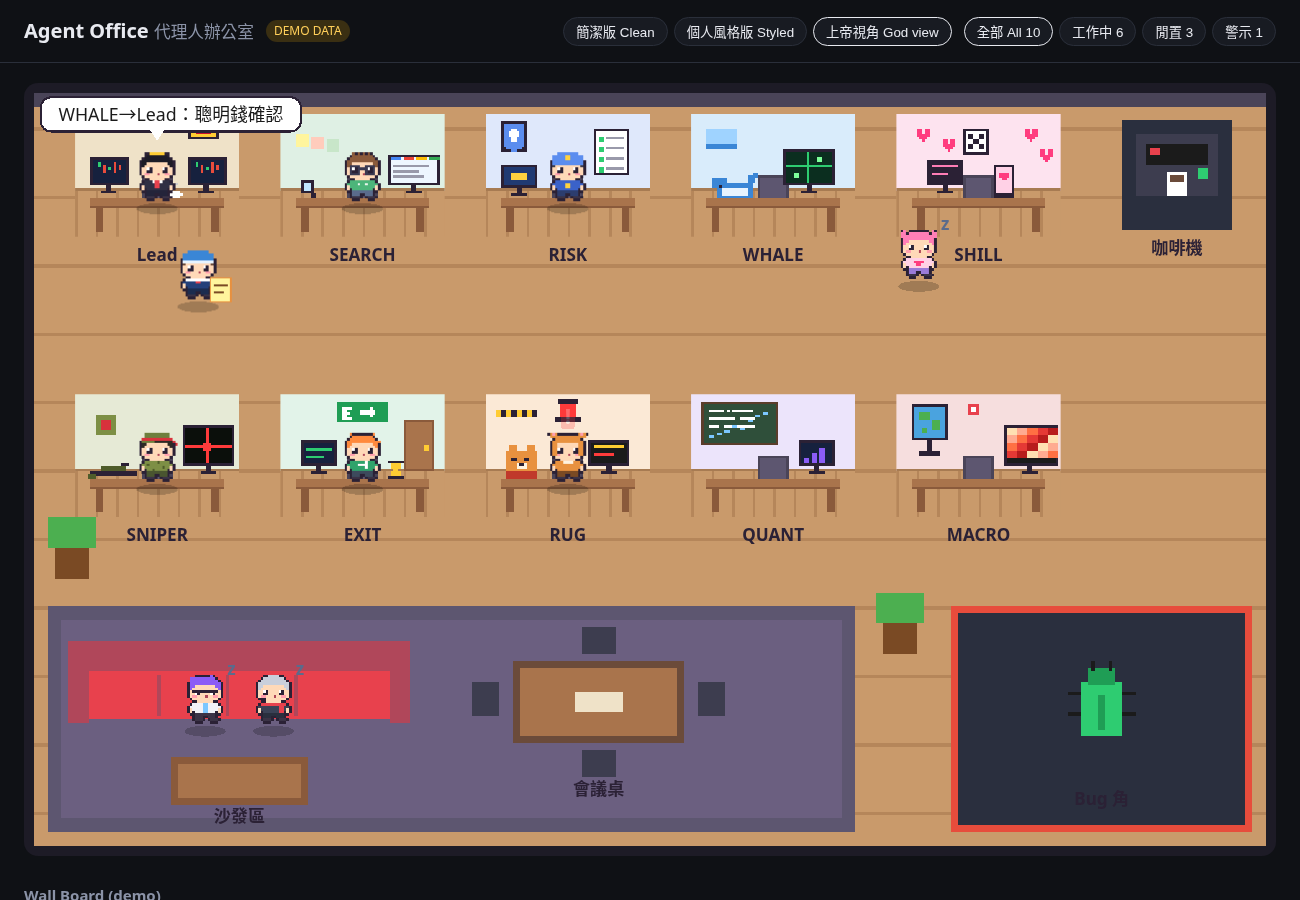
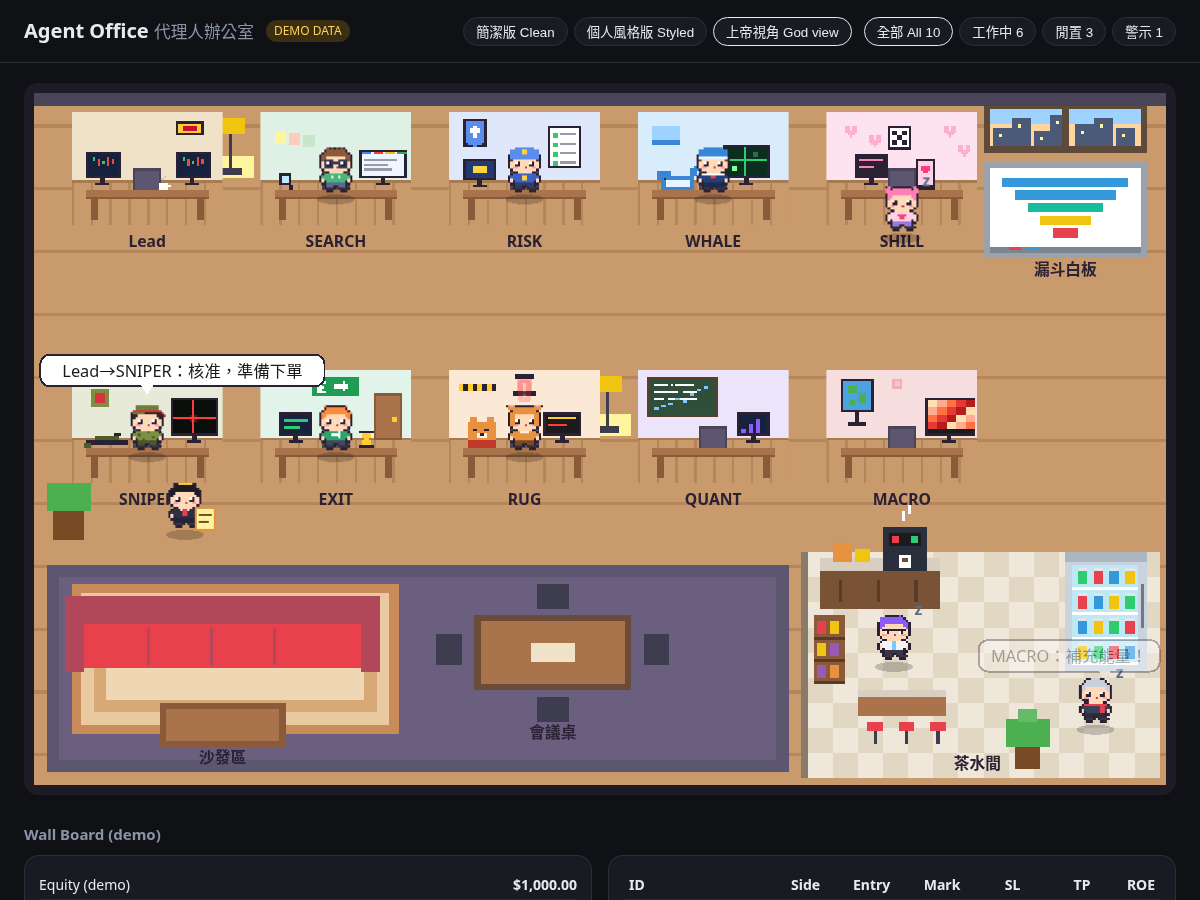
God view: replace Bug corner with pixel kitchen (fridge, coffee, snacks, island), window, funnel whiteboard, rug, lamps; idle agents grab drinks

diff --git a/godcore.js b/godcore.js
@@ -11,17 +11,18 @@ function godPlan(S, LEAD) {
   const spot = (x, y) => ({ x: x - 7.5, y: y - 16, door: { x, y: LB }, lane: "B", cx: x });
   const SOFA = [spot(30, 186), spot(50, 186), spot(70, 186), spot(90, 186)];
   const TABLE = [spot(140, 182), spot(190, 182)];
-  const COFFEE = { x: 335 - 7.5, y: LA - 14, door: { x: 335, y: LA }, lane: "A", cx: 335 };
+  const COFFEE = { x: 266, y: 166, door: { x: 300, y: LB }, lane: "B", cx: 300, via: [[292.5, 166]] };
+  const FRIDGE = { x: 333, y: 186, door: { x: 300, y: LB }, lane: "B", cx: 300, via: [[292.5, 186]] };
   const near = (id, dx) => { const s = seat[id]; return { x: s.door.x - 7.5 + dx, y: s.door.y - (s.lane === "A" ? 10 : 18), door: { x: s.door.x + dx, y: s.door.y }, lane: s.lane, cx: s.door.x + dx }; };
   // route through corridors (lane A y=56, lane B y=142, vertical gaps between desks)
   function route(P, Q) {
-    const pts = [[P.x, P.y], [P.door.x - 7.5, P.door.y - 16]];
+    const pts = [[P.x, P.y], ...(P.via ? P.via.slice().reverse() : []), [P.door.x - 7.5, P.door.y - 16]];
     let cx = P.door.x;
     if (P.lane !== Q.lane) {
       const g = GAPS.reduce((a, b) => Math.abs(b - (cx + Q.door.x) / 2) < Math.abs(a - (cx + Q.door.x) / 2) ? b : a);
       pts.push([g - 7.5, P.door.y - 16], [g - 7.5, Q.door.y - 16]);
     }
-    pts.push([Q.door.x - 7.5, Q.door.y - 16], [Q.x, Q.y]);
+    pts.push([Q.door.x - 7.5, Q.door.y - 16], ...(Q.via || []), [Q.x, Q.y]);
     return pts;
   }
   const isOn = id => S[id] && S[id].status !== "idle";
@@ -57,20 +58,21 @@ function godPlan(S, LEAD) {
   let si = 0;
   ORDER.filter(id => S[id] && S[id].status === "idle").forEach((id, i) => {
     const lounge = si < SOFA.length ? SOFA[si] : TABLE[(si - SOFA.length) % 2]; si++;
-    const o = (i * 2.3) % (T * 0.3), a = o + 0.5, b = a + T * 0.12, c = b + T * 0.3, d = c + T * 0.1, e = d + T * 0.12, f = e + T * 0.08;
+    const o = (i * 2.3) % (T * 0.3), a = o + 0.5, b = a + T * 0.12, c = b + T * 0.2, d = c + T * 0.09, d2 = d + T * 0.07, d3 = d2 + T * 0.04, e = d3 + T * 0.07, f = e + T * 0.08;
     push(id, a, seat[id].x, seat[id].y); walk(id, route(seat[id], lounge), a, b); push(id, c, lounge.x, lounge.y);
-    walk(id, route(lounge, COFFEE), c, d); push(id, e, COFFEE.x, COFFEE.y); walk(id, route(COFFEE, seat[id]), e, Math.min(f, T));
+    walk(id, route(lounge, FRIDGE), c, d); push(id, d2, FRIDGE.x, FRIDGE.y); bubbles.push({ x: FRIDGE.x + 7.5, y: FRIDGE.y, text: id + "：補充能量！", on: [d, d2] });
+    walk(id, [[FRIDGE.x, FRIDGE.y], [292.5, 186], [292.5, 166], [COFFEE.x, COFFEE.y]], d2, d3); push(id, e, COFFEE.x, COFFEE.y); walk(id, route(COFFEE, seat[id]), e, Math.min(f, T));
   });
   const R = (x, y, w, h, c) => ({ x, y, w, h, c });
   const room = [R(0, 0, 360, 220, "#c99a6b"), ...Array.from({ length: 11 }, (_, i) => R(0, i * 20 + 10, 360, 1, "#b5865a")), R(0, 0, 360, 4, "#4a4458"),
-    R(4, 150, 236, 66, "#5d5670"), R(8, 154, 228, 58, "#6b5f80"),
+    R(4, 150, 236, 66, "#5d5670"), R(8, 154, 228, 58, "#6b5f80"), R(12, 156, 104, 48, "#c98b5a"), R(15, 159, 98, 42, "#e8c9a0"), R(19, 163, 90, 34, "#d9a877"), R(23, 167, 82, 26, "#efd7b3"),
     R(14, 160, 92, 9, "#b0475a"), R(14, 169, 92, 14, "#e8414d"), R(10, 160, 6, 24, "#b0475a"), R(104, 160, 6, 24, "#b0475a"),
     R(36, 170, 1, 12, "#b0475a"), R(56, 170, 1, 12, "#b0475a"), R(76, 170, 1, 12, "#b0475a"), R(40, 194, 40, 14, "#8a5a3b"), R(42, 196, 36, 10, "#a9744c"),
     R(140, 166, 50, 24, "#6b4b3a"), R(142, 168, 46, 20, "#a9744c"), R(158, 175, 14, 6, "#efe2c8"), R(128, 172, 8, 10, "#3d3d4f"), R(194, 172, 8, 10, "#3d3d4f"), R(160, 156, 10, 8, "#3d3d4f"), R(160, 192, 10, 8, "#3d3d4f"),
-    R(318, 8, 32, 32, "#2a2f3e"), R(322, 12, 24, 18, "#3d3d4f"), R(325, 15, 18, 6, "#1b1b1b"), R(326, 16, 3, 2, "#e8414d"), R(331, 23, 6, 7, "#ffffff"), R(332, 24, 4, 2, "#6b4b3a"), R(340, 22, 3, 3, "#2ecc71"),
-    R(268, 150, 88, 66, "#e74c3c"), R(270, 152, 84, 62, "#2a2f3e"), R(306, 172, 12, 16, "#2ecc71"), R(308, 168, 8, 5, "#1f9d55"), R(302, 175, 4, 1, "#1b1b1b"), R(318, 175, 4, 1, "#1b1b1b"), R(302, 181, 4, 1, "#1b1b1b"), R(318, 181, 4, 1, "#1b1b1b"), R(309, 166, 1, 3, "#1b1b1b"), R(314, 166, 1, 3, "#1b1b1b"), R(311, 176, 2, 10, "#1f9d55"),
-    R(248, 154, 10, 10, "#7a4a24"), R(246, 146, 14, 9, "#4caf50"), R(6, 132, 10, 10, "#7a4a24"), R(4, 124, 14, 9, "#4caf50")];
-  const labels = [[60, 213, "沙發區"], [165, 205, "會議桌"], [334, 47, "咖啡機"], [312, 208, "Bug 角"]];
+    R(302, 4, 52, 15, "#5d4a3a"), R(304, 5, 48, 12, "#ffd59e"), R(304, 5, 48, 5, "#9fd3ff"), R(305, 11, 6, 6, "#4a5a78"), R(307, 13, 1, 1, "#fff59d"), R(311, 8, 6, 9, "#4a5a78"), R(313, 10, 1, 1, "#fff59d"), R(318, 12, 6, 5, "#4a5a78"), R(320, 14, 1, 1, "#fff59d"), R(323, 7, 6, 10, "#4a5a78"), R(325, 9, 1, 1, "#fff59d"), R(331, 10, 6, 7, "#4a5a78"), R(333, 12, 1, 1, "#fff59d"), R(337, 8, 6, 9, "#4a5a78"), R(339, 10, 1, 1, "#fff59d"), R(344, 11, 6, 6, "#4a5a78"), R(346, 13, 1, 1, "#fff59d"), R(327, 5, 2, 12, "#5d4a3a"), R(302, 22, 52, 30, "#9aa3ad"), R(304, 24, 48, 25, "#ffffff"), R(308, 27, 40, 3, "#3498db"), R(312, 31, 32, 3, "#3498db"), R(316, 35, 24, 3, "#1abc9c"), R(320, 39, 16, 3, "#f1c40f"), R(324, 43, 8, 3, "#e8414d"), R(304, 49, 48, 2, "#7a8590"), R(310, 49, 4, 1, "#e8414d"), R(316, 49, 4, 1, "#3498db"), R(58, 20, 12, 7, "#fff59d"), R(62, 12, 1, 12, "#3d3d4f"), R(59, 24, 7, 2, "#3d3d4f"), R(59, 8, 8, 5, "#f1c40f"), R(178, 102, 12, 7, "#fff59d"), R(182, 94, 1, 12, "#3d3d4f"), R(179, 106, 7, 2, "#3d3d4f"), R(179, 90, 8, 5, "#f1c40f"),
+    R(246, 146, 112, 72, "#efe8da"), R(254, 146, 8, 8, "#e2d7c3"), R(270, 146, 8, 8, "#e2d7c3"), R(286, 146, 8, 8, "#e2d7c3"), R(302, 146, 8, 8, "#e2d7c3"), R(318, 146, 8, 8, "#e2d7c3"), R(334, 146, 8, 8, "#e2d7c3"), R(350, 146, 8, 8, "#e2d7c3"), R(246, 154, 8, 8, "#e2d7c3"), R(262, 154, 8, 8, "#e2d7c3"), R(278, 154, 8, 8, "#e2d7c3"), R(294, 154, 8, 8, "#e2d7c3"), R(310, 154, 8, 8, "#e2d7c3"), R(326, 154, 8, 8, "#e2d7c3"), R(342, 154, 8, 8, "#e2d7c3"), R(254, 162, 8, 8, "#e2d7c3"), R(270, 162, 8, 8, "#e2d7c3"), R(286, 162, 8, 8, "#e2d7c3"), R(302, 162, 8, 8, "#e2d7c3"), R(318, 162, 8, 8, "#e2d7c3"), R(334, 162, 8, 8, "#e2d7c3"), R(350, 162, 8, 8, "#e2d7c3"), R(246, 170, 8, 8, "#e2d7c3"), R(262, 170, 8, 8, "#e2d7c3"), R(278, 170, 8, 8, "#e2d7c3"), R(294, 170, 8, 8, "#e2d7c3"), R(310, 170, 8, 8, "#e2d7c3"), R(326, 170, 8, 8, "#e2d7c3"), R(342, 170, 8, 8, "#e2d7c3"), R(254, 178, 8, 8, "#e2d7c3"), R(270, 178, 8, 8, "#e2d7c3"), R(286, 178, 8, 8, "#e2d7c3"), R(302, 178, 8, 8, "#e2d7c3"), R(318, 178, 8, 8, "#e2d7c3"), R(334, 178, 8, 8, "#e2d7c3"), R(350, 178, 8, 8, "#e2d7c3"), R(246, 186, 8, 8, "#e2d7c3"), R(262, 186, 8, 8, "#e2d7c3"), R(278, 186, 8, 8, "#e2d7c3"), R(294, 186, 8, 8, "#e2d7c3"), R(310, 186, 8, 8, "#e2d7c3"), R(326, 186, 8, 8, "#e2d7c3"), R(342, 186, 8, 8, "#e2d7c3"), R(254, 194, 8, 8, "#e2d7c3"), R(270, 194, 8, 8, "#e2d7c3"), R(286, 194, 8, 8, "#e2d7c3"), R(302, 194, 8, 8, "#e2d7c3"), R(318, 194, 8, 8, "#e2d7c3"), R(334, 194, 8, 8, "#e2d7c3"), R(350, 194, 8, 8, "#e2d7c3"), R(246, 202, 8, 8, "#e2d7c3"), R(262, 202, 8, 8, "#e2d7c3"), R(278, 202, 8, 8, "#e2d7c3"), R(294, 202, 8, 8, "#e2d7c3"), R(310, 202, 8, 8, "#e2d7c3"), R(326, 202, 8, 8, "#e2d7c3"), R(342, 202, 8, 8, "#e2d7c3"), R(254, 210, 8, 8, "#e2d7c3"), R(270, 210, 8, 8, "#e2d7c3"), R(286, 210, 8, 8, "#e2d7c3"), R(302, 210, 8, 8, "#e2d7c3"), R(318, 210, 8, 8, "#e2d7c3"), R(334, 210, 8, 8, "#e2d7c3"), R(350, 210, 8, 8, "#e2d7c3"), R(244, 146, 2, 72, "#8a7a6a"), R(250, 148, 38, 16, "#7a5236"), R(250, 148, 38, 4, "#d8cfc0"), R(256, 155, 1, 7, "#5a3b26"), R(268, 155, 1, 7, "#5a3b26"), R(280, 155, 1, 7, "#5a3b26"), R(270, 138, 14, 14, "#2a2f3e"), R(272, 140, 10, 4, "#1b1b1b"), R(273, 141, 2, 2, "#e8414d"), R(279, 141, 2, 2, "#2ecc71"), R(275, 147, 4, 4, "#ffffff"), R(276, 148, 2, 1, "#6b4b3a"), R(276, 133, 1, 3, "#ffffff"), R(278, 131, 1, 3, "#ffffff"), R(254, 143, 6, 6, "#e8913f"), R(261, 145, 5, 4, "#f1c40f"), R(328, 146, 26, 38, "#c9d3dd"), R(328, 146, 26, 3, "#aab6c2"), R(330, 150, 21, 32, "#bfe8f5"), R(330, 157, 21, 1, "#ffffff"), R(332, 151, 3, 5, "#2ecc71"), R(332, 151, 3, 1, "#dfe6ee"), R(337, 151, 3, 5, "#e8414d"), R(337, 151, 3, 1, "#dfe6ee"), R(342, 151, 3, 5, "#3498db"), R(342, 151, 3, 1, "#dfe6ee"), R(347, 151, 3, 5, "#f1c40f"), R(347, 151, 3, 1, "#dfe6ee"), R(330, 165, 21, 1, "#ffffff"), R(332, 159, 3, 5, "#e8414d"), R(332, 159, 3, 1, "#dfe6ee"), R(337, 159, 3, 5, "#3498db"), R(337, 159, 3, 1, "#dfe6ee"), R(342, 159, 3, 5, "#f1c40f"), R(342, 159, 3, 1, "#dfe6ee"), R(347, 159, 3, 5, "#2ecc71"), R(347, 159, 3, 1, "#dfe6ee"), R(330, 173, 21, 1, "#ffffff"), R(332, 167, 3, 5, "#3498db"), R(332, 167, 3, 1, "#dfe6ee"), R(337, 167, 3, 5, "#f1c40f"), R(337, 167, 3, 1, "#dfe6ee"), R(342, 167, 3, 5, "#2ecc71"), R(342, 167, 3, 1, "#dfe6ee"), R(347, 167, 3, 5, "#e8414d"), R(347, 167, 3, 1, "#dfe6ee"), R(330, 181, 21, 1, "#ffffff"), R(332, 175, 3, 5, "#f1c40f"), R(332, 175, 3, 1, "#dfe6ee"), R(337, 175, 3, 5, "#2ecc71"), R(337, 175, 3, 1, "#dfe6ee"), R(342, 175, 3, 5, "#e8414d"), R(342, 175, 3, 1, "#dfe6ee"), R(347, 175, 3, 5, "#3498db"), R(347, 175, 3, 1, "#dfe6ee"), R(352, 156, 1, 14, "#6c7a89"), R(248, 166, 10, 22, "#8a5a3b"), R(248, 173, 10, 1, "#5a3b26"), R(249, 168, 3, 4, "#e8414d"), R(253, 168, 3, 4, "#f1c40f"), R(248, 180, 10, 1, "#5a3b26"), R(249, 175, 3, 4, "#f1c40f"), R(253, 175, 3, 4, "#9b59b6"), R(248, 187, 10, 1, "#5a3b26"), R(249, 182, 3, 4, "#9b59b6"), R(253, 182, 3, 4, "#e8913f"), R(262, 190, 28, 8, "#a9744c"), R(262, 190, 28, 2, "#d8cfc0"), R(265, 200, 5, 3, "#e8414d"), R(267, 203, 1, 4, "#3d3d4f"), R(275, 200, 5, 3, "#e8414d"), R(277, 203, 1, 4, "#3d3d4f"), R(285, 200, 5, 3, "#e8414d"), R(287, 203, 1, 4, "#3d3d4f"), R(312, 207, 8, 8, "#7a4a24"), R(309, 199, 14, 9, "#4caf50"), R(313, 196, 6, 4, "#66bb6a"),
+    R(6, 132, 10, 10, "#7a4a24"), R(4, 124, 14, 9, "#4caf50")];
+  const labels = [[60, 213, "沙發區"], [165, 205, "會議桌"], [300, 215, "茶水間"], [328, 58, "漏斗白板"]];
   let css = "";
   const pc = t => (Math.min(T, Math.max(0, t)) / T * 100).toFixed(2) + "%";
   Object.entries(tracks).forEach(([id, fr]) => {
